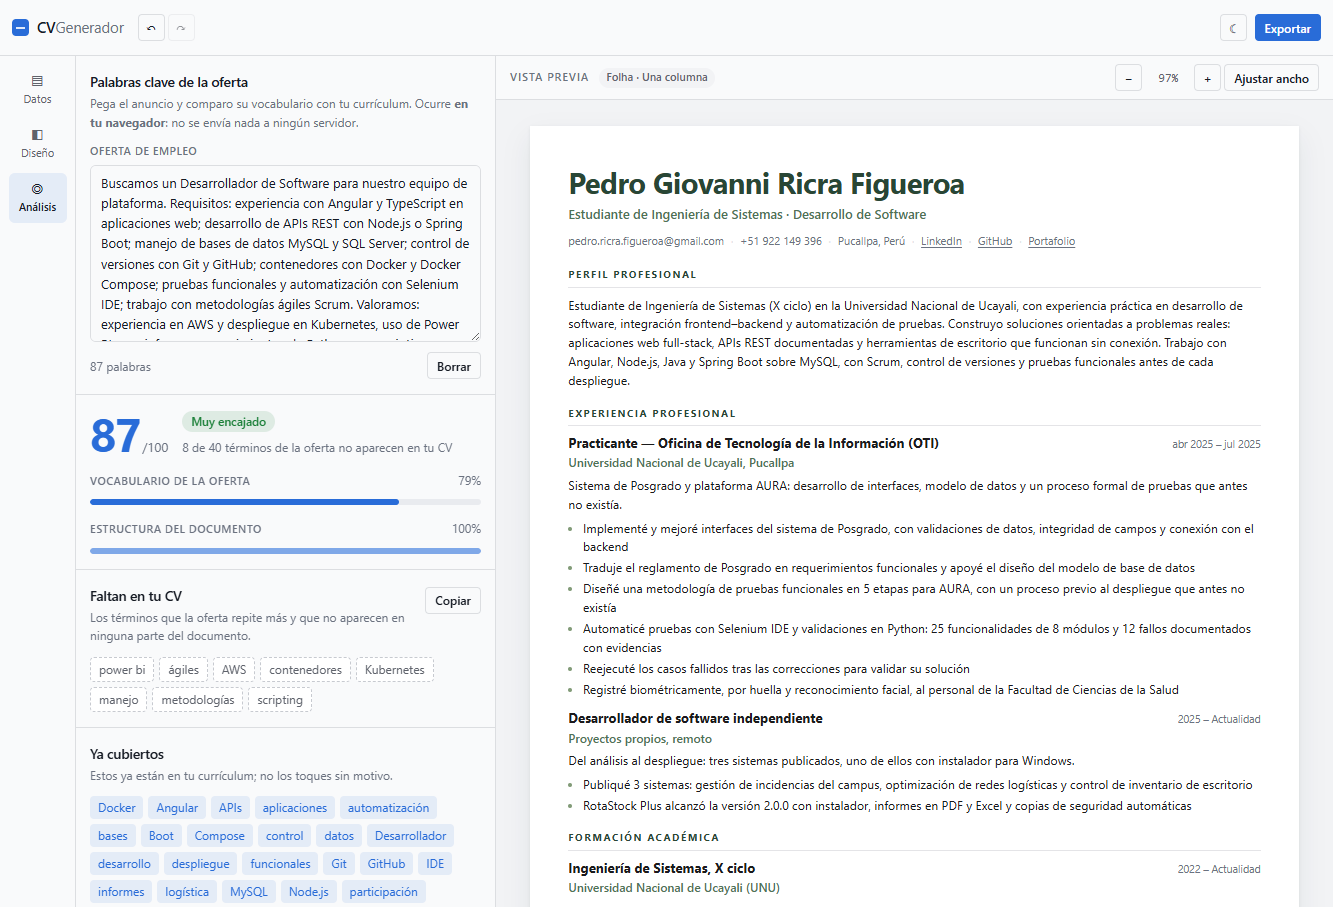
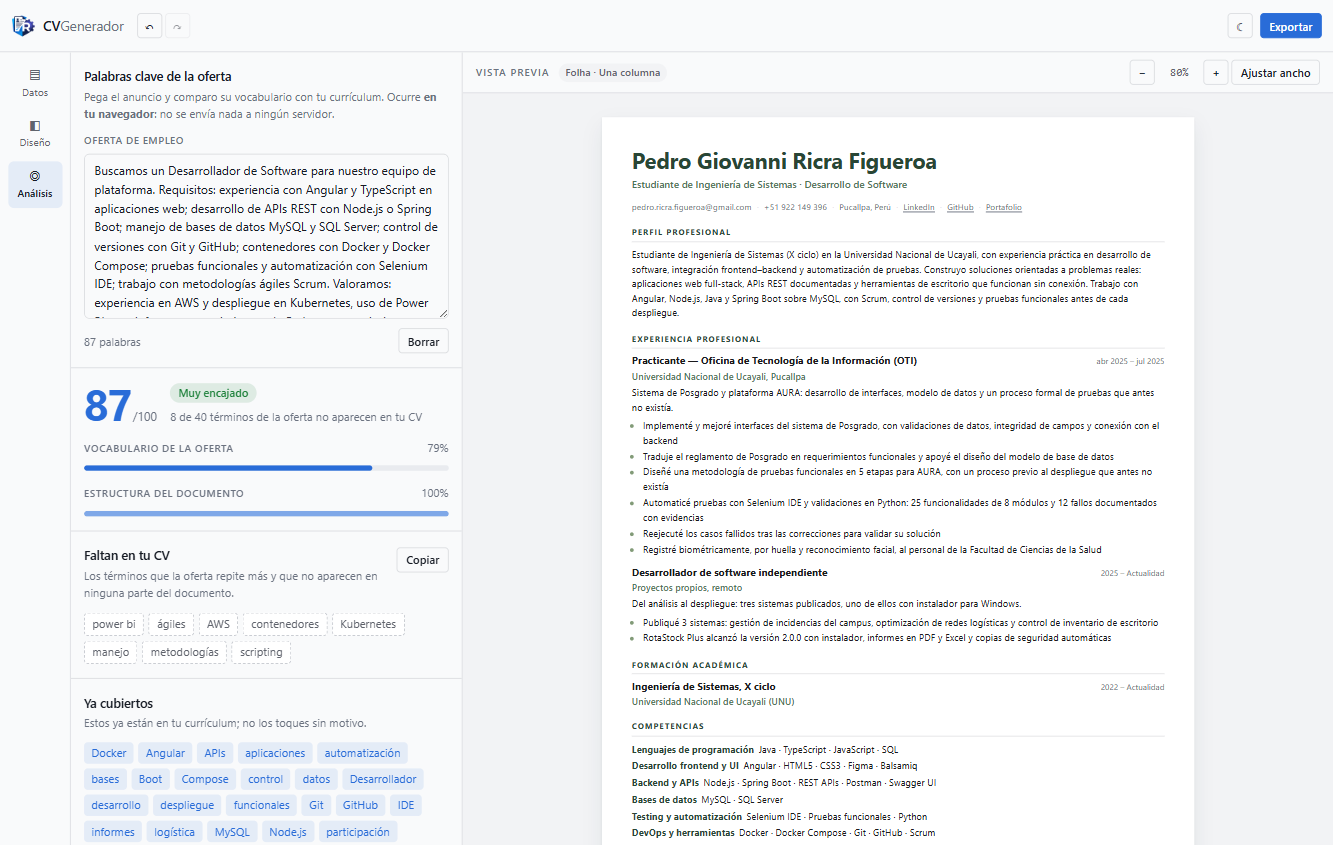
feat: sustituye la marca por el PNG y renueva las capturas del README
reemplaza el cuadradito azul de la barra y el favicon por el logo en public/logo-cv-generador.png

las cinco capturas de img/ del README se tomaron de nuevo con la marca nueva

diff --git a/src/index.html b/src/index.html
@@ -10,7 +10,7 @@
       content="Editor de currículums con 8 perfiles, 12 plantillas, 15 paletas, foto opcional y exportación a Word, PDF y Markdown. Todo ocurre en tu navegador."
     />
     <meta name="color-scheme" content="light dark" />
-    <link rel="icon" type="image/x-icon" href="favicon.ico" />
+    <link rel="icon" type="image/png" href="logo-cv-generador.png" />
     <script>
       // Apply the saved theme before the first paint to avoid a flash.
       (function () {

diff --git a/src/app/app.component.scss b/src/app/app.component.scss
@@ -29,22 +29,11 @@
 }
 
 .brand-mark {
-  position: relative;
-  width: 17px;
-  height: 17px;
-  border-radius: 4px;
-  background: var(--ink);
+  display: block;
+  width: 26px;
+  height: 26px;
   flex: none;
-}
-.brand-mark::after {
-  content: '';
-  position: absolute;
-  left: 4px;
-  right: 4px;
-  top: 8px;
-  height: 1.5px;
-  background: var(--text-inverse);
-  opacity: 0.85;
+  object-fit: contain;
 }
 
 .brand-name {

diff --git a/src/app/app.component.html b/src/app/app.component.html
@@ -1,7 +1,14 @@
 <div class="app">
   <header class="topbar">
     <div class="brand">
-      <span class="brand-mark" aria-hidden="true"></span>
+      <img
+        class="brand-mark"
+        src="logo-cv-generador.png"
+        alt=""
+        aria-hidden="true"
+        width="26"
+        height="26"
+      />
       <span class="brand-name">CV<span class="brand-thin">Generador</span></span>
     </div>
 

diff --git a/README.md b/README.md
@@ -1,3 +1,5 @@
+<img src="public/logo-cv-generador.png" alt="Logotipo de CV Generador" width="112">
+
 # CV Generador — editor de currículums que corre entero en tu navegador
 
 > Escribes el CV una vez, eliges perfil y plantilla, lo ves en A4 en vivo y lo descargas en Word,
